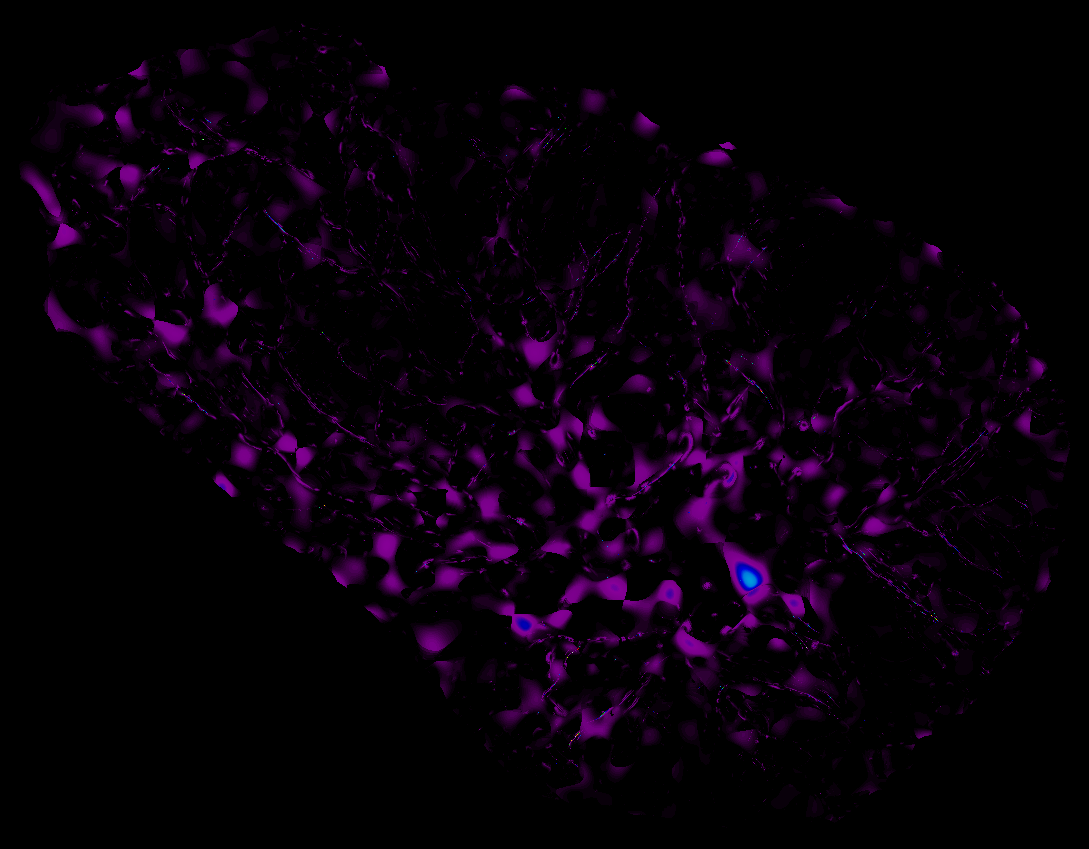
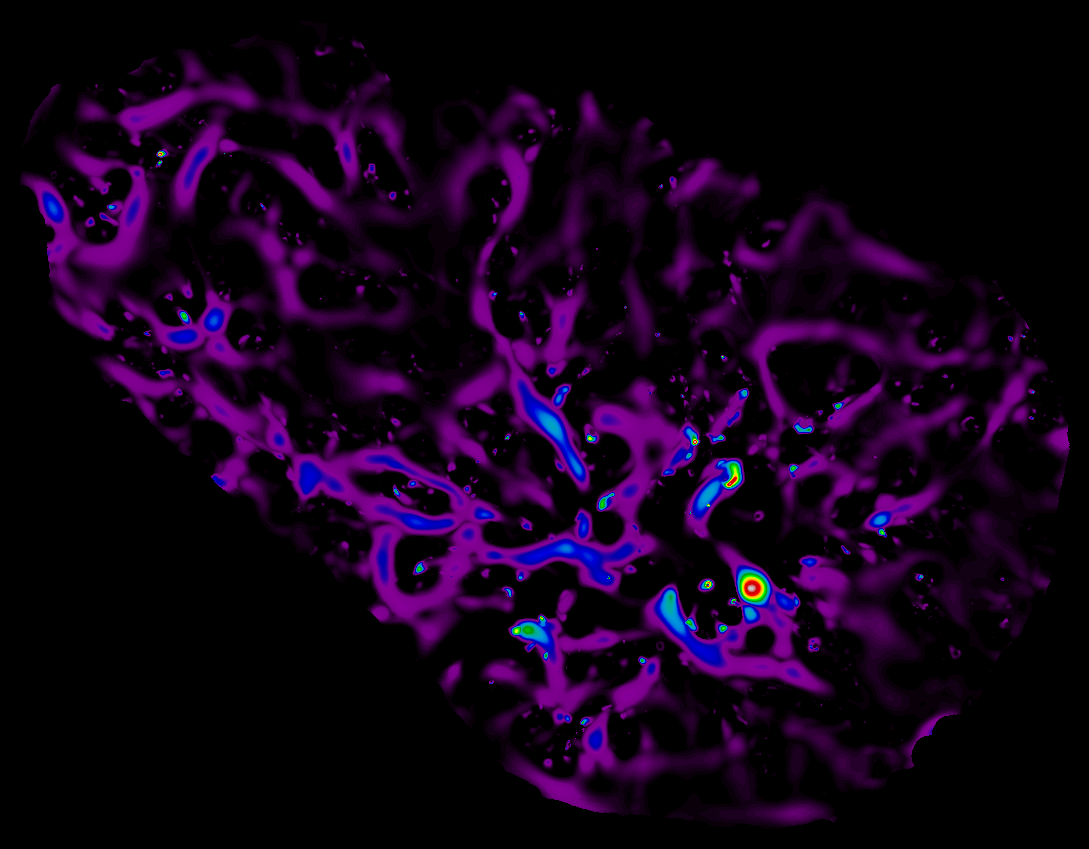
hand code eigs of weingarten matrix, but the results are way worse and i dunno why

Changed region(s): [[0.0, 0.0612, 0.9991, 0.98], [0.9366, 0.5819, 0.9679, 0.6125], [0.3434, 0.0612, 0.3747, 0.0919]]

diff --git a/hfft.py b/hfft.py
@@ -131,51 +131,64 @@ def fft_weingarten_eigs(img, sigma=1., kernel=None):
     hxx, hxy, hyy = [np.gradient(gradients[ax0], axis=ax1)
                     for ax0, ax1 in combinations_with_replacement(axes, 2)]
 
-    # where to store eigenvalues
-    #K2 = np.zeros_like(img, dtype='float64')
-    #K1 = np.zeros_like(img, dtype='float64')
 
     # need to do gf*(G@H)
+    gf = (1 + hx**2 + hy**2)**(-1.5)
+
+
+    # each of these will have shape (2,2, *img.shape)
+    G = np.array([[ 1 + hy**2 , -hx*hy],
+                  [ -hx*hy, 1 + hx**2]])
+    H = np.array([[hxx,hxy],
+                 [hxy, hyy]])
+
+    # where to store eigenvalues
+    K2 = np.zeros_like(img, dtype='float64')
+    K1 = np.zeros_like(img, dtype='float64')
+
+
+    ## build the 2x2 weingarten map at each pixel and find its eigvals
+    for i in range(img.shape[0]):
+        for j in range(img.shape[1]):
+            if img.mask[i,j]:
+                continue # don't bother with things outside the masked region
+            L = eigvals(gf[i,j]*(H[...,i,j] @ G[...,i,j]))
+
+            K1[i,j], K2[i,j] = L
+
+    """
     # we hand code it individually, knowing that the eigs are
     # T/2 +- sqrt(T^2/4 - D)
     # where T is the trace and D is the determinant
     # the determinant of HG is det(H)det(G)
     # and trace is easy
-    gf = (1 + hx**2 + hy**2)**(-1.5)
-
-    # each of these will have shape (2,2, *img.shape)
-    #G = np.array([[ 1 + hy**2 , -hx*hy],
-    #              [ -hx*hy, 1 + hx**2]])
-    #H = np.array([[hxx,hxy],
-    #             [hxy, hyy]])
-
-
-
-    ## build the 2x2 weingarten map at each pixel and find its eigvals
-    #for i in range(img.shape[0]):
-    #    for j in range(img.shape[1]):
-    #        if img.mask[i,j]:
-    #            continue # don't bother with things outside the masked region
-    #        L = eigvals(gf[i,j]*(H[...,i,j] @ G[...,i,j]))
-
-    #        K1[i,j], K2[i,j] = L
-
     # this could be optimized by eliminating repeated calculations
-    T = hxx*hyy + hxx*hy*hy + hyy*hx*hx - 2*hxy*hx*hy
-    D = (1+hx*hx)*(1+hy*hy) - hx*hx*hy*hy
-    D *= (hxx*hyy - hxy*hxy)
+    #T = hxx*hyy + hxx*hy*hy + hyy*hx*hx - 2*hxy*hx*hy
+    #D = (1+hx*hx)*(1+hy*hy) - hx*hx*hy*hy
+    #D *= (hxx*hyy - hxy*hxy)
+    gd = 1 + hy**2
+    ge = -hx*hy
+    gf = 1 + hx**2
+
+    # this is the trace divided by 2
+    T = (hxx*gd + hyy*gf + 2*hxy*ge)/2
+    D = (hxx*hyy - hxy**2) * (gd*gf - ge**2)
 
     T = ma.masked_array(T, mask=img.mask)
     D = ma.masked_array(D, mask=img.mask)
 
-    discriminant = np.sqrt(T**2 / 4 - D)
 
-    K1 = T/2 + discriminant
-    K2 = T/2 - discriminant
+    discriminant = T**2 - D
+    #plt.imshow((discriminant<0))
+    #plt.title((discriminant<0).sum())
+    #plt.show()
+    discriminant = np.sqrt(discriminant.filled(0))
+    K1 = T + discriminant
+    K2 = T - discriminant
 
     K1 *= gf
     K2 *= gf
-
+    """
     # same thing as reorder_eigs
     L = np.stack((K1,K2))
     mag = np.argsort(np.abs(L), axis=0)
